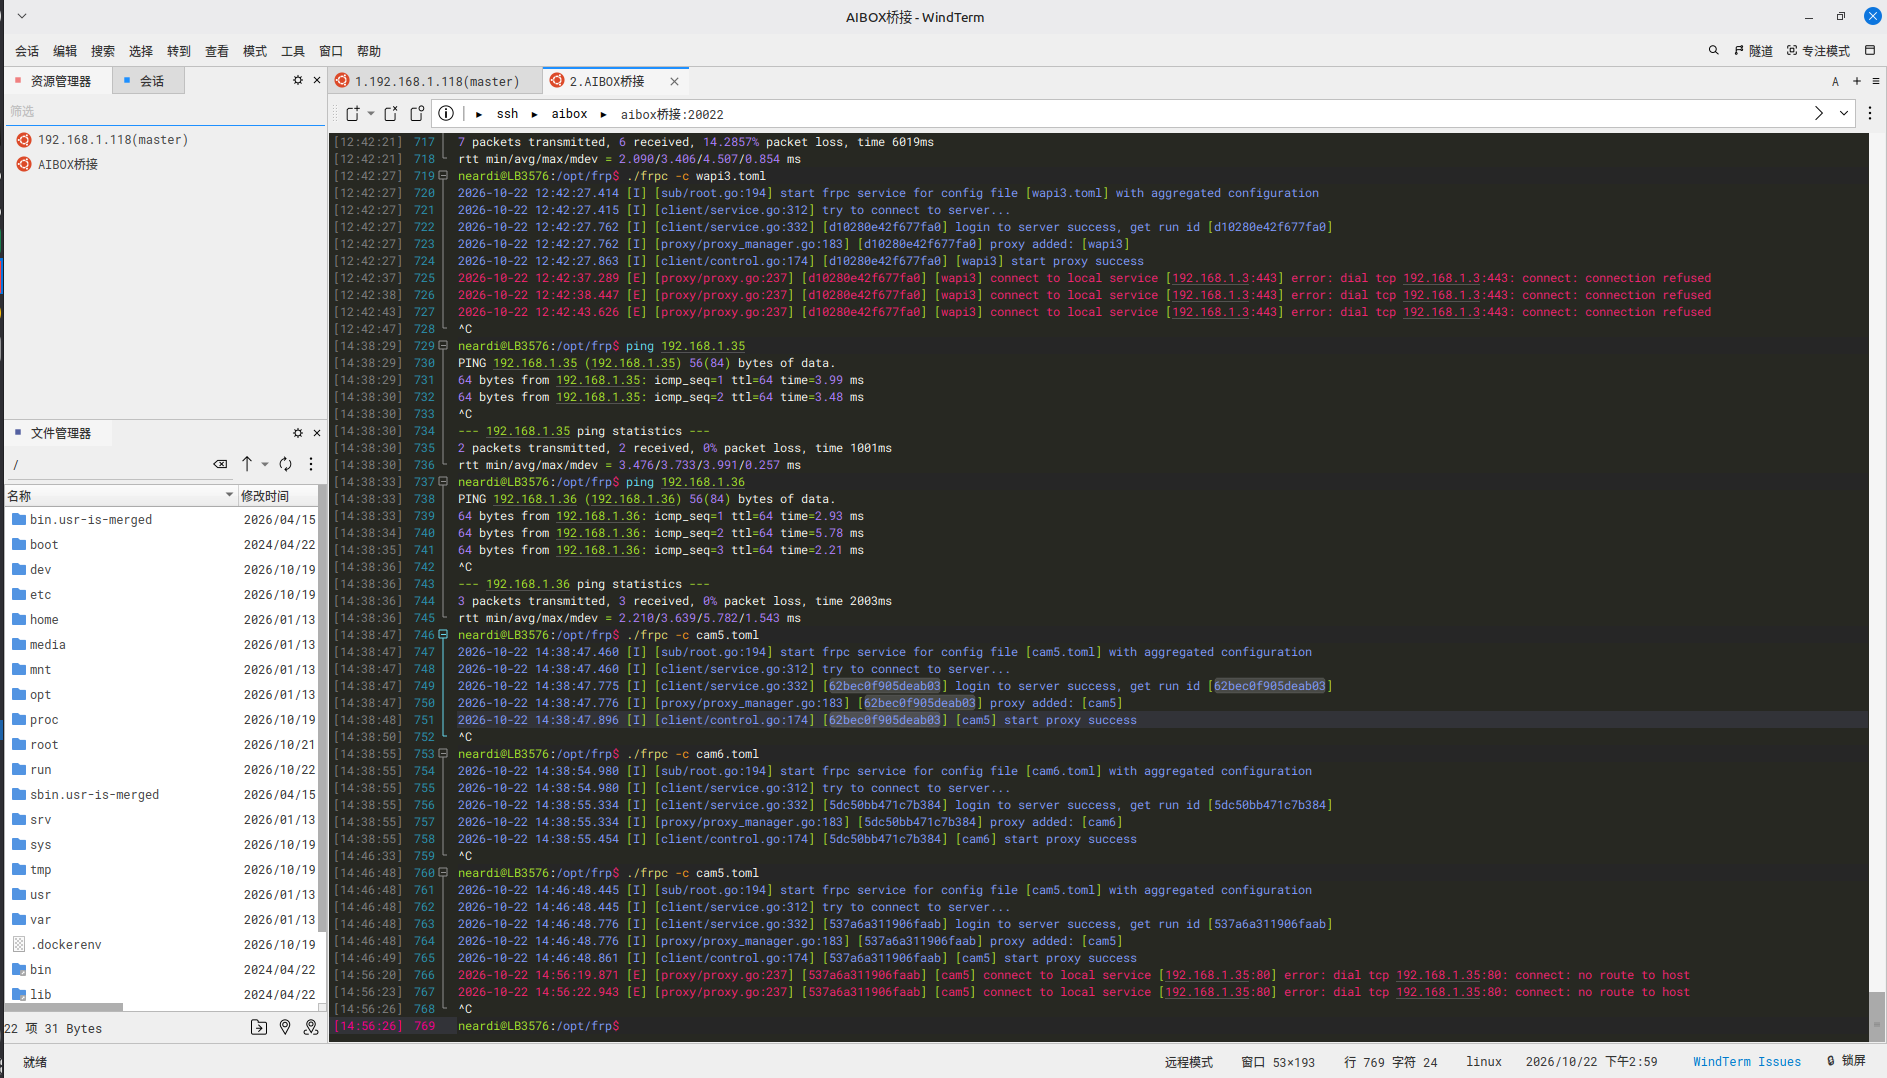
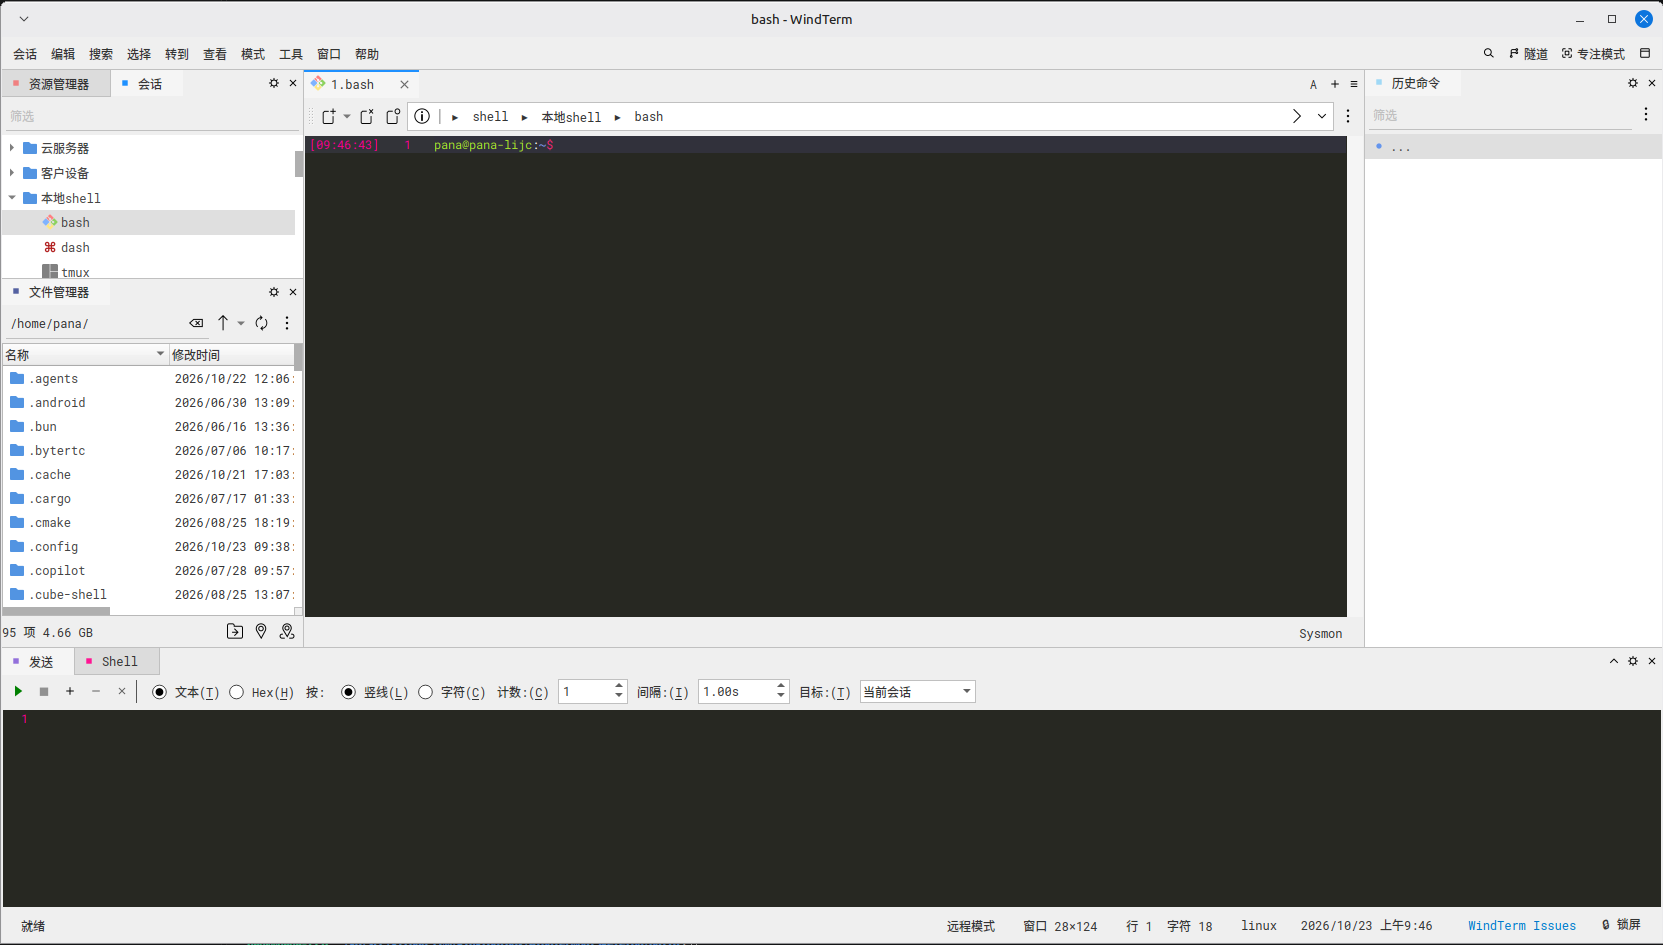
ui: 布局机制正名——双层 QMainWindow 嵌套(KitGroup 0x8bb360)：标签行挂 menuWidget 槽(objectName 正名 ViewGroup 0x8baf26)、KitBar 恢复 addToolBar 挂嵌入窗口(天然不横跨侧栏)、central=muxRow；ThemeManager 改写表 TabGroup→ViewGroup；LAYOUT v5

diff --git a/src/MainWindow.cpp b/src/MainWindow.cpp
@@ -43,14 +43,17 @@
 #include "panes/ShellPane.h"
 #include "panes/TransferPane.h"
 #include "widgets/ActionIcons.h"
+#include "widgets/KitGroup.h"
 #include "widgets/MuxPaneGroup.h"
 #include "widgets/QuickBar.h"
 #include "widgets/Splitter.h"
 
 namespace {
 
-// v3：中央区由动态插入改为显式原版树，v2 的 RootSplitter/CenterSplitter 旧状态必须失效
-const QString LAYOUT_VERSION = QStringLiteral("v3");
+// v5：中部单元改为嵌套 QMainWindow（KitGroup，ctor 0x008bb360）——标签行=menuWidget、
+// KitBar=addToolBar、MuxPaneGroup=central（setupBars 0x008bade2）；v4 的 CenterGroup
+// VBox 旧状态必须失效
+const QString LAYOUT_VERSION = QStringLiteral("v5");
 
 QString splitterSettingsKey(const QString &objectName)
 {
@@ -153,8 +156,9 @@ void MainWindow::createToolBar()
     if (name.isEmpty())
         return;
 
-    // 原版 KitBar 在工具栏行（标签行之下、内容之上）。QMainWindow addToolBar 会插到 menuWidget
-    // 之上（行序颠倒）→ 改为普通 widget 挂 m_toolRow，由 createCentral 编排（单层 QMainWindow 模拟）
+    // 原版 KitBar 在 KitGroup 的 toolBar 区（工具栏行：标签行之下、终端之上，只占中部宽）。
+    // 经 KitGroup::addToolBar 挂入（setupBars 0x008bade2 → QMainWindow::addToolBar 0x008bb07d）；
+    // createCentral 里装配
     auto *toolBar = new QToolBar(name, this);
     // 原版工具栏类 KitBar（QToolBar 子类，0x008b31b6）；gui.theme:583 qproperty-iconSize:20px
     toolBar->setObjectName(QStringLiteral("KitBar"));
@@ -345,8 +349,6 @@ void MainWindow::createCentral()
     auto *root = new Splitter(this);
     root->setOrientation(Qt::Vertical);
     root->setObjectName(QStringLiteral("RootSplitter"));
-    root->setOrientation(Qt::Vertical);
-    root->setObjectName(QStringLiteral("RootSplitter"));
 
     auto *col = new Splitter;
     col->setObjectName(QStringLiteral("CenterColumn")); // 0x58：未 setOrientation，默认 H（左中右三列）
@@ -367,16 +369,26 @@ void MainWindow::createCentral()
     // shortcut: 原版运行时按均分插入，此处按实机侧栏截图约 2:1 定格；动态插入改走 PaneManager 时恢复均分
     left->setSizes({2000, 1000});
 
-    auto *center = new Splitter;
-    center->setOrientation(Qt::Vertical);
-    center->setObjectName(QStringLiteral("CenterSplitter"));
-
+    // 原版 root 中央单元 0x60=QSplitter 子类 H（childrenCollapsible(false)），
+    // 内装 TabGroup_buildCentral(0x005ab6e8) 的返回件（原版 return +0x60 = 该 splitter）
     auto *muxRow = new QSplitter(Qt::Horizontal);
     muxRow->setObjectName(QStringLiteral("MuxRow"));
     muxRow->setChildrenCollapsible(false);
     m_muxPaneGroup = new MuxPaneGroup;
     muxRow->addWidget(m_muxPaneGroup);
-    center->addWidget(muxRow);
+
+    // 中央列 = KitGroup（嵌套 QMainWindow，ctor 0x008bb360）：标签行占 menuWidget 槽、
+    // KitBar 占 toolBar 区（QToolBar 只占中部宽，不横跨侧栏）、central=MuxPaneGroup
+    // 的堆栈（对应 setupBars 0x008bade2：setMenuWidget 0x008bb044 → TabGroup_buildCentral
+    // 0x005ab6e8 return +0x60 → addToolBar 0x008bb07d）
+    auto *kitGroup = new KitGroup;
+    if (m_muxPaneGroup->tabBarRow())
+        kitGroup->setMenuWidget(m_muxPaneGroup->tabBarRow());
+    if (m_toolBar) {
+        m_toolBar->setParent(kitGroup); // 脱离 MainWindow，改挂 KitGroup；objectName KitBar 保持主题规则
+        kitGroup->addToolBar(m_toolBar);
+    }
+    kitGroup->setCentralWidget(muxRow);
 
     auto *right = new QSplitter(Qt::Vertical);
     right->setObjectName(QStringLiteral("RightPanes"));
@@ -394,29 +406,17 @@ void MainWindow::createCentral()
     bottomGroup->hide();
 
     col->addWidget(left);
-    col->addWidget(center);
+    col->addWidget(kitGroup);
     col->addWidget(right);
     root->addWidget(col);
     root->addWidget(bottom);
 
-    // 实机行序（menuWidget 槽 0x008bade2 链）：菜单栏→标签行(全宽)→工具栏行(含地址栏)→内容
-    auto *centralLayout = new QVBoxLayout;
-    centralLayout->setContentsMargins(0, 0, 0, 0);
-    centralLayout->setSpacing(0);
-    if (m_muxPaneGroup)
-        centralLayout->addWidget(m_muxPaneGroup->tabBarRow());
-    if (m_toolBar) {
-        m_toolBar->setParent(this); // 脱离 addToolBar 路径后重挂；objectName KitBar 保持主题规则
-        centralLayout->addWidget(m_toolBar);
-    }
-    centralLayout->addWidget(root, 1);
-
-    auto *central = new QWidget;
-    central->setLayout(centralLayout);
-    setCentralWidget(central);
+    // v5：中央 widget 即 root splitter（中部单元=KitGroup 嵌套窗口，标签行/工具栏不横跨侧栏）
+    setCentralWidget(root);
 
     col->setSizes({1000, 4000, 1000});
-    center->setSizes({4000, 2000});
+    // 原 CenterGroup VBox 期 setSizes({4000,2000}) 双值随 KitGroup 化失效移除（muxRow 内部
+    // childrenCollapsible(false) 语义不变，运行时无需预分配份额）
     root->setSizes({4000, 2000});
 
     // 移动分割条即持久化；所有具名 splitter（含 PaneManager 动态嵌套）统一接入

diff --git a/src/widgets/MuxPaneGroup.cpp b/src/widgets/MuxPaneGroup.cpp
@@ -41,7 +41,8 @@ MuxPaneGroup::MuxPaneGroup(QWidget *parent)
     , m_menuButton(new QToolButton(this))
 {
     // 原版 TabGroup（QFrame：标签条+右侧按钮，0x005af896）以类名挂 objectName；
-    // 标签行容器同挂 TabGroup 供 gui.theme 命中（MuxPaneGroup 自身不再是标签行）
+    // 骨架标签行容器实挂 "ViewGroup"（0x008bade2: 0x008baf26 setObjectName("ViewGroup")），
+    // 供 gui.theme 改写后的 #ViewGroup 规则命中
     m_tabBar->setExpanding(false);
     m_tabBar->setUsesScrollButtons(true);
     m_tabBar->setElideMode(Qt::ElideRight);
@@ -66,7 +67,9 @@ MuxPaneGroup::MuxPaneGroup(QWidget *parent)
     tabRow->addWidget(m_addButton);
     tabRow->addWidget(m_menuButton);
     m_tabBarRow = new QWidget(this);
-    m_tabBarRow->setObjectName(QStringLiteral("TabGroup"));
+    // 原版 setObjectName="ViewGroup"（KitWindow_setupBars 0x008bade2，0x008baf26，
+    // 此前误记 TabGroup）；QMainWindow::setMenuWidget 挂 KitGroup 的 menuWidget 槽
+    m_tabBarRow->setObjectName(QStringLiteral("ViewGroup"));
     m_tabBarRow->setLayout(tabRow);
 
     auto *layout = new QVBoxLayout(this);

diff --git a/src/core/ThemeManager.cpp b/src/core/ThemeManager.cpp
@@ -44,9 +44,13 @@ bool ThemeManager::loadTheme(const QString &name)
 void ThemeManager::apply() const
 {
     // Qt QSS 类型选择器只匹配 C++ 类名（Qt5/6 实测），原版自定义类是 objectName：
-    // 把原版类名改写成 #objectName 才能命中 gui.theme 的 TextView/TabGroup/KitBar 等规则
+    // 把原版类名改写成 #objectName 才能命中 gui.theme 的 TextView/ViewGroup/KitBar 等规则
+    // （原版 TabGroup 类的标签行实例 objectName=ViewGroup，0x008baf26）
     QString qss = m_qss;
-    for (const char *name : {"TextView", "TabGroup", "KitBar", "AppletBar", "TerminalWindow"}) {
+    // "TabGroup"→"#ViewGroup"：类名与实例名不同名，非 token 循环能表达的映射
+    qss.replace(QLatin1String("TabGroup"), QStringLiteral("#ViewGroup"));
+    // 子串安全：TabGroup/ViewGroup/KitBar… 均非其他 QSS 标识符的子串（gui.theme 全量 rg 核过）
+    for (const char *name : {"TextView", "KitBar", "AppletBar", "TerminalWindow"}) {
         const QLatin1String token(name);
         qss.replace(token, QStringLiteral("#") + token);
     }

diff --git a/src/widgets/KitGroup.h b/src/widgets/KitGroup.h
@@ -1,0 +1,15 @@
+#pragma once
+
+#include <QMainWindow>
+
+// 原版中部单元（ctor 0x008bb360，KitGroup 独占 vtable/metaObject）：
+// QMainWindow 子类嵌入为 root 中部列——menuWidget 槽=标签行(ViewGroup)、toolBar 区=KitBar、
+// central=MuxPaneGroup 的 QStackedWidget。QToolBar 只占其宽 → 不横跨侧栏（嵌套天然隔离）。
+// 内容由 MainWindow 装配（对应 setupBars 0x008bade2）
+class KitGroup : public QMainWindow
+{
+    Q_OBJECT
+
+public:
+    explicit KitGroup(QWidget *parent = nullptr);
+};

diff --git a/src/widgets/MuxPaneGroup.h b/src/widgets/MuxPaneGroup.h
@@ -26,8 +26,8 @@ public:
     void onAddSession();
 
 public:
-    // 标签行（tabBar+addBtn+menuBtn 容器）：MainWindow 将其提升到 central VBox 顶行，
-    // 模拟原版 TabGroup 经 setMenuWidget 占菜单槽（全宽，位于工具栏行之上）
+    // 标签行（tabBar+addBtn+menuBtn 容器，objectName=ViewGroup）：MainWindow 经
+    // KitGroup::setMenuWidget 挂其 menuWidget 槽（0x008bade2）
     QWidget *tabBarRow() const { return m_tabBarRow; }
 
 private:

diff --git a/src/widgets/KitGroup.cpp b/src/widgets/KitGroup.cpp
@@ -1,0 +1,8 @@
+#include "KitGroup.h"
+
+// ctor 0x008bb360：仅 QMainWindow(parent, Qt::Widget 嵌入)——装配全在宿主
+// （KitWindow_setupBars 0x008bade2：setMenuWidget/setCentralWidget/addToolBar）
+KitGroup::KitGroup(QWidget *parent)
+    : QMainWindow(parent, Qt::Widget)
+{
+}
